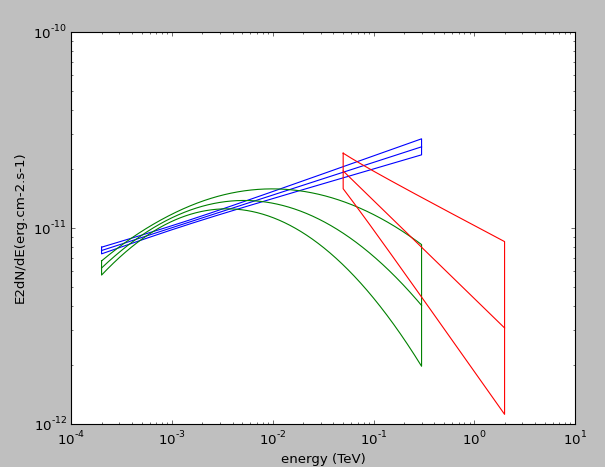
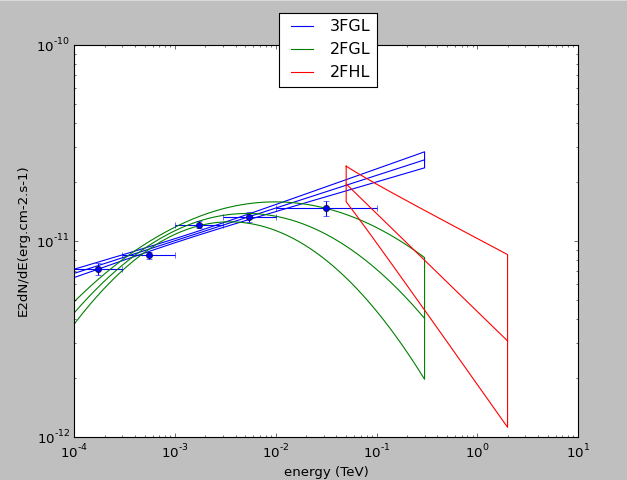
work on catalog reader

Changed region(s): [[0.0595, 0.0, 0.9818, 1.0], [0.0, 0.3298, 0.119, 0.6595]]

diff --git a/Example/ExReadFermiCatalog.py b/Example/ExReadFermiCatalog.py
@@ -20,21 +20,40 @@ print "3FGL Var Index ",Cat.GetVarIndex("3FGL")
 
 
 #create a spectrum for a given catalog and compute the model+butterfly
-Cat.MakeSpectrum("3FGL",2e-4,0.3)
+Cat.MakeSpectrum("3FGL",1e-4,0.3)
 enerbut,but,enerphi,phi = Cat.Plot("3FGL")
 
-Cat.MakeSpectrum("2FGL",2e-4,0.3)
+Cat.MakeSpectrum("2FGL",1e-4,0.3)
 enerbut2FGL,but2FGL,enerphi2FGL,phi2FGL = Cat.Plot("2FGL")
 
 Cat.MakeSpectrum("2FHL",5e-2,2)
 enerbut2FHL,but2FHL,enerphi2FHL,phi2FHL = Cat.Plot("2FHL")
 
+
+# read DATA Point 
+em,ep,flux,dflux =  Cat.GetDataPoints('3FGL') #energy in TeV since the user ask for that in the call of Cat
+ener = numpy.sqrt(em*ep) 
+dem = ener-em
+dep = ep-ener
+c=Cat.ReadPL('3FGL')[3]
+dnde = (-c+1)*flux*numpy.power(ener*1e6,-c+2)/(numpy.power((ep*1e6),-c+1)-numpy.power((em*1e6),-c+1))*1.6e-6
+ddnde = dnde*dflux/flux
+
 #plot
 import matplotlib.pyplot as plt
 plt.loglog()
-plt.plot(enerbut, but, 'b-', enerphi,phi, 'b-',enerbut2FGL,but2FGL,'g-',enerphi2FGL,phi2FGL,'g-',
-        enerbut2FHL,but2FHL,'r-',enerphi2FHL,phi2FHL,'r-')
+plt.plot(enerbut, but, 'b-',label = "3FGL")
+plt.plot(enerphi,phi, 'b-')
+plt.plot(enerbut2FGL,but2FGL,'g-',label = "2FGL")
+plt.plot(enerphi2FGL,phi2FGL,'g-')
+plt.plot(enerbut2FHL,but2FHL,'r-',label = "2FHL")
+plt.plot(enerphi2FHL,phi2FHL,'r-')
+
+plt.errorbar(ener, dnde, xerr= [dem,dep], yerr = ddnde,fmt='o')
         
+plt.legend(bbox_to_anchor=(.2, .98, .40, .102), loc=1,
+           ncol=1, borderaxespad=0.)
+           
 plt.ylabel('E2dN/dE(erg.cm-2.s-1)')
 plt.xlabel('energy (TeV)')
 plt.show()

diff --git a/Catalog/ReadFermiCatalog.py b/Catalog/ReadFermiCatalog.py
@@ -159,6 +159,7 @@ class FermiCatalogReader(Loggin.base):
             dflux.append(abs(-tmp[0]+tmp[1])/2.)
           else:
             dflux.append(self.CatalogData[key]['data'].field("Unc_"+self.CatalogData[key]['Band'][i])[self.CatalogData[key]['indice']])
+
       return self.CatalogData[key]['eMin'],self.CatalogData[key]['eMax'],numpy.array(flux),numpy.array(dflux)
     except :
       self.error("No such catalog: "+key)
@@ -215,12 +216,15 @@ class FermiCatalogReader(Loggin.base):
 
   def ReadPL2(self,key):
     ''' read Power Law 2 information'''
-    indice = self.CatalogData[key]['indice']
-    index  = self.CatalogData[key]['data'].field('Spectral_Index')[indice]
-    eindex = self.CatalogData[key]['data'].field('Unc_Spectral_Index')[indice]
-    flux   = self.CatalogData[key]['data'].field('Flux50')[indice]
-    eflux  = self.CatalogData[key]['data'].field('Unc_Flux50')[indice]
-
+    if key == '2FHL':
+        indice = self.CatalogData[key]['indice']
+        index  = self.CatalogData[key]['data'].field('Spectral_Index')[indice]
+        eindex = self.CatalogData[key]['data'].field('Unc_Spectral_Index')[indice]
+        flux   = self.CatalogData[key]['data'].field('Flux50')[indice]
+        eflux  = self.CatalogData[key]['data'].field('Unc_Flux50')[indice]
+    else:
+        self.error("No PL2 infor for catalog: "+key)
+    
     return [flux,eflux,index,eindex]
 
 
